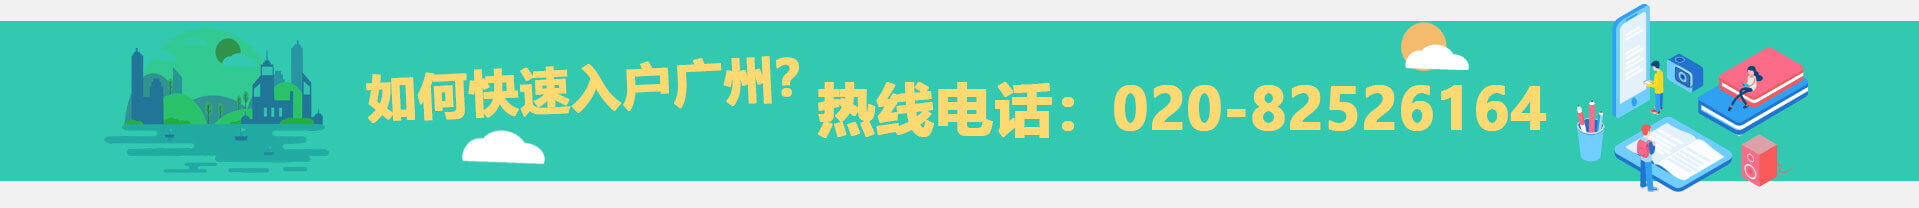
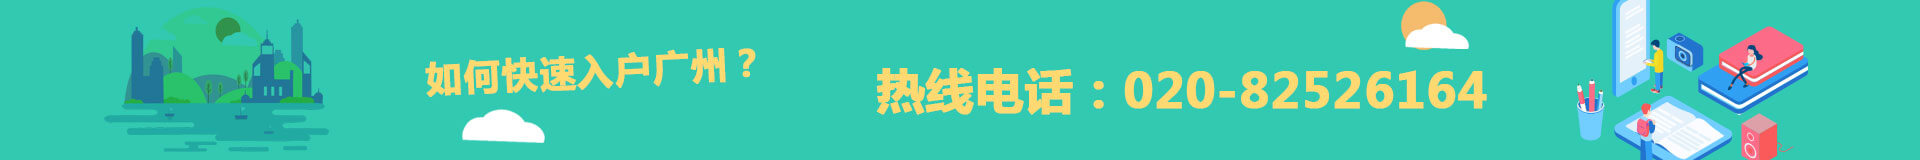
修改了官网 更新了百度地图https 协议

diff --git a/ruhubao-website/src/main/webapp/index.html b/ruhubao-website/src/main/webapp/index.html
@@ -235,8 +235,17 @@
                     <option value="">请选择社保年限</option>
                     <option value="无">无</option>
                     <option value="1年以下">1年以下</option>
-                    <option value="1-4年">1-4年</option>
-                    <option value="4年以上">4年以上</option>
+                    <option value="1年">1年</option>
+                    <option value="2年">2年</option>
+                    <option value="3年">3年</option>
+                    <option value="4年">4年</option>
+                    <option value="5年">5年</option>
+                    <option value="6年">6年</option>
+                    <option value="7年">7年</option>
+                    <option value="8年">8年</option>
+                    <option value="9年">9年</option>
+                    <option value="10年">10年</option>
+                    <option value="10年以上">10年以上</option>
                   </select>
                 </div>
               </div>

diff --git a/ruhubao-website/src/main/webapp/content/views/contact.html b/ruhubao-website/src/main/webapp/content/views/contact.html
@@ -10,7 +10,7 @@
     <link rel="shortcut icon" type="images/x-icon" href="../../img/bolinglink.png">
     <link rel="stylesheet" type="text/css" href="../css/contact.css" />
     
-    <script type="text/javascript" src="http://api.map.baidu.com/api?v=2.0&ak=w9RqjL3IfkMReVNZc3FSZXjiGegCwU9f"></script>
+    <script type="text/javascript" src="https://api.map.baidu.com/api?v=2.0&ak=w9RqjL3IfkMReVNZc3FSZXjiGegCwU9f"></script>
   </head>
   <body>
     <div class="app">

diff --git a/ruhubao-website/src/main/webapp/css/index.less b/ruhubao-website/src/main/webapp/css/index.less
@@ -360,12 +360,12 @@ img,a,span,input{
         width:100%;
         height: 100%;
         z-index: 3;
-        font-size: 24px;
+        font-size: 21px;
         color: #fff;
         text-align: center;
         h2{
-          font-size: 50px;
-          line-height: 52px;
+          font-size: 40px;
+          line-height: 45px;
           margin-top: 114px;
         }
         p{

diff --git a/ruhubao-website/src/main/webapp/css/index.css b/ruhubao-website/src/main/webapp/css/index.css
@@ -347,13 +347,13 @@ input {
   width: 100%;
   height: 100%;
   z-index: 3;
-  font-size: 24px;
+  font-size: 21px;
   color: #fff;
   text-align: center;
 }
 .app .content .page6 .box h2 {
-  font-size: 50px;
-  line-height: 52px;
+  font-size: 40px;
+  line-height: 45px;
   margin-top: 114px;
 }
 .app .content .page6 .box p {
